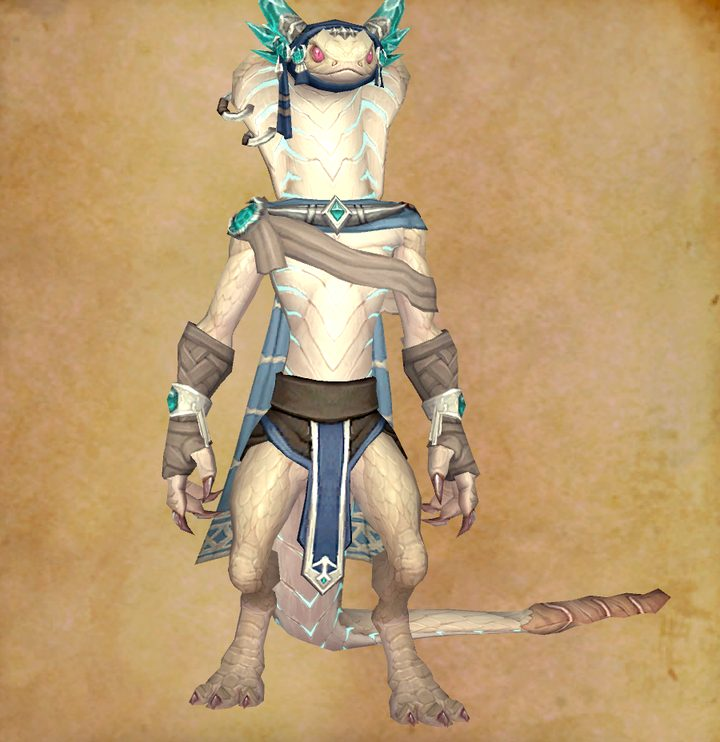
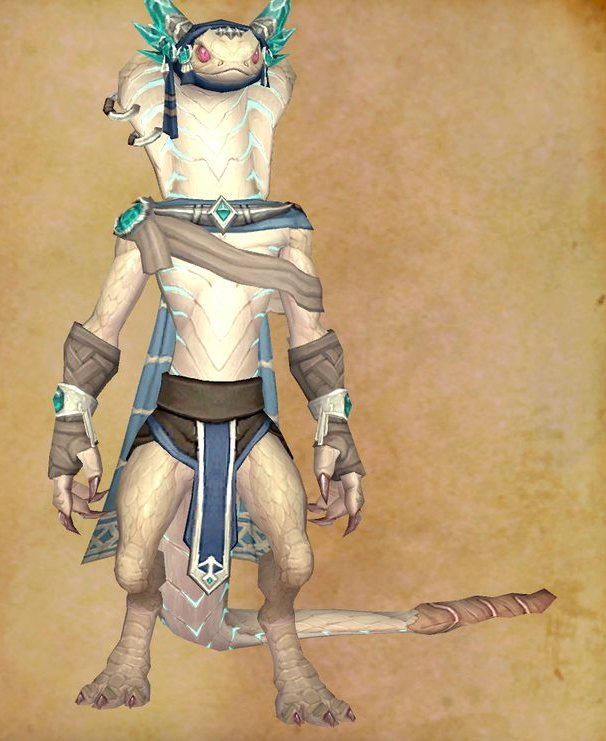
Portraits become plates: their own aspect, real size, no black slab
The first pass reused the capture treatment — fixed heights, object-fit
contain, a sunken background — which letterboxed every parchment portrait
between black bars and shrank the art to thumbnail presence. Wrong frame for
this material: the parchment IS the ground, and the plates arrive in every
aspect from wide Nek'zali to tall Ula'tek.

Journal plates now render as plates. Nothing behind them, the image's own
ratio sets the box, and the layout gives them room: a raid single runs to
640px as the page's hero, member strips share one tall row (300px on raid,
wrapping into pairs where four don't fit), and the card grid's media column
widens 300 to 380 so an M+ plate fills it at natural height — Avatar of
Sethraliss stands 461px tall in her card where she was letterboxed into 190.
Every plate click-opens the file at native size, same as the maps. The
legacy capture treatment is untouched for photos, which are uniform and
landscape and suit the slab.

The plates themselves also tightened: a bounds pass trims empty parchment
around the model, clamped to 28% a side so a tan-coloured model can never
trim itself away — Vexhul gives back 19% of his area, the Avatar 15%.

diff --git a/css/app.css b/css/app.css
@@ -345,15 +345,27 @@ td.statcell .lean{margin-left:.15rem}
 .bossname{min-width:0}
 .bossname h3{display:inline;font-size:1.24rem;color:var(--ink)}
 .bosssub{font-size:.92rem;color:var(--ink-muted);margin:.3rem 0 0;max-width:64ch}
-.bossbody{display:grid;grid-template-columns:minmax(0,300px) minmax(0,1fr);gap:1.15rem;padding:1rem 1.15rem}
+.bossbody{display:grid;grid-template-columns:minmax(0,380px) minmax(0,1fr);gap:1.15rem;padding:1rem 1.15rem}
 .bossmedia{margin:0;min-width:0}
 /* one image or a member strip — the row shares the slot, images split it */
 .bossmedia .bmrow{display:flex;gap:.45rem;min-width:0}
 .bossmedia img{width:100%;height:190px;object-fit:contain;display:block;background:var(--ground-sunken);border:1px solid var(--rule);min-width:0}
 .bossmedia.members img{flex:1 1 0}
-/* raid boss pages reuse the figure outside the card grid: cap its width */
-#p-boss .bossmedia{margin:.5rem 0 1rem;max-width:560px}
-#p-boss .bossmedia.members{max-width:820px}
+
+/* ── journal PLATES ── the parchment is its own ground, so no slab and no
+   fixed box: the image's ratio decides, and the layout gives it room.
+   Singles fill their column; member strips share one height and let widths
+   fall where the art puts them. */
+.bossmedia.plate .bmrow a{display:block;min-width:0;font-size:0}
+.bossmedia.plate img{width:100%;height:auto;object-fit:unset;background:none;
+  border:1px solid var(--rule);border-bottom:2px solid var(--accent-deep)}
+.bossmedia.plate.members .bmrow{flex-wrap:wrap;gap:.55rem}
+.bossmedia.plate.members .bmrow a{flex:0 1 auto}
+.bossmedia.plate.members img{width:auto;height:clamp(200px,24vw,300px)}
+/* raid boss pages: a single plate is the hero — near content width */
+#p-boss .bossmedia.plate{margin:.7rem 0 1.1rem;max-width:640px}
+#p-boss .bossmedia.plate.members{max-width:none}
+#p-boss .bossmedia.plate.members img{height:clamp(220px,26vw,320px)}
 .bossmedia .noimg{
   height:190px;display:grid;place-content:center;justify-items:center;gap:.4rem;
   background:var(--ground-sunken);border:1px dashed var(--rule);color:var(--ink-faint);
@@ -379,7 +391,9 @@ td.statcell .lean{margin-left:.15rem}
 .bstat.myth>span{color:var(--tier1)}
 .bossabils{padding:0 1.15rem 1rem;border-top:1px solid var(--rule-soft)}
 .bossabils .abil:first-of-type{padding-top:.85rem}
-@media(max-width:760px){.bossbody{grid-template-columns:minmax(0,1fr)}.bossmedia img,.bossmedia .noimg{height:220px}}
+@media(max-width:760px){.bossbody{grid-template-columns:minmax(0,1fr)}.bossmedia img,.bossmedia .noimg{height:220px}
+  .bossmedia.plate img{height:auto}
+  .bossmedia.plate.members img,#p-boss .bossmedia.plate.members img{height:clamp(150px,38vw,220px)}}
 
 /* ═══ META PILLS ═════════════════════════════════════════════════════ */
 .pill{

diff --git a/js/render.js b/js/render.js
@@ -170,10 +170,17 @@ const bossMedia=(imgKeys,fallbackName)=>{
   if(!ks.length) return "";
   const journal=ks[0].startsWith("j-");
   const caption=journal
-    ?`Dungeon-journal model${ks.length>1?"s":""}${srcMark(["wh_ej"])}`
+    ?`Dungeon-journal model${ks.length>1?"s":""} · click for full size${srcMark(["wh_ej"])}`
     :`Nameplate visible in frame${srcMark(["img"])}`;
-  return `<figure class="bossmedia${ks.length>1?" members":""}">
-    <div class="bmrow">${ks.map(k=>`<img src="${IMG[k]}" alt="${esc(JNAMES[k]||fallbackName)}${journal?" — dungeon-journal model":" in game"}" loading="lazy" decoding="async" title="${esc(JNAMES[k]||"")}">`).join("")}</div>
+  /* Journal plates carry their own parchment ground and arrive in every
+     aspect, so they render as PLATES: no slab behind them, the image's own
+     ratio sets the box, and a click opens the file at native size. The
+     legacy capture treatment (fixed-height on the sunken ground) stays for
+     photos, which are uniform and landscape. */
+  return `<figure class="bossmedia${journal?" plate":""}${ks.length>1?" members":""}">
+    <div class="bmrow">${ks.map(k=>{
+      const img=`<img src="${IMG[k]}" alt="${esc(JNAMES[k]||fallbackName)}${journal?" — dungeon-journal model":" in game"}" loading="lazy" decoding="async" title="${esc(JNAMES[k]||"")}">`;
+      return journal?`<a href="${IMG[k]}" target="_blank" rel="noopener">${img}</a>`:img;}).join("")}</div>
     <figcaption>${ks.length>1?ks.map(k=>esc(JNAMES[k]||"")).filter(Boolean).join(" · ")+" — ":""}${caption}</figcaption></figure>`;};
 function encounterCard(d,e,roleFilter){
   const s=bossStats(d,e), img=e.img&&bossMedia(e.img,e.n);
